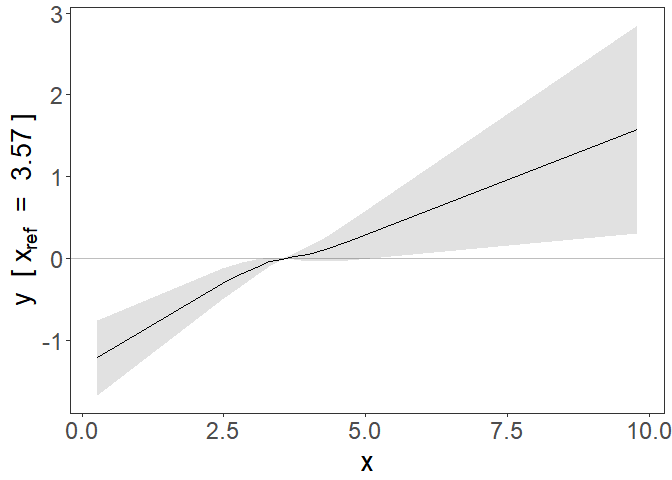
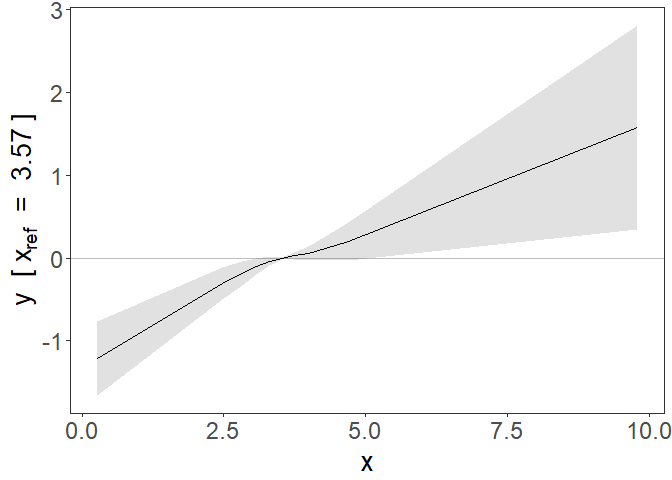
clarify dummy vars

diff --git a/README.md b/README.md
@@ -57,20 +57,20 @@ library(SUMnlmr)
 test_data<-create_ind_data(N=10000, beta2=2, beta1=1)
 # this creates quadratic.Y  = x + 2x^2 + errorY 
 head(test_data)
-#>   g          u    errorX      errorY        X linear.Y quadratic.Y    sqrt.Y
-#> 1 2 0.23514002 0.0748216 -0.59156575 2.809962 2.406508    18.19828 1.2728403
-#> 2 1 0.18941186 0.1848965 -0.57572876 2.624308 2.200109    15.97410 1.1957725
-#> 3 0 0.05089268 1.7024419  2.11611839 3.753335 5.910167    34.08521 4.0941850
-#> 4 1 0.86949288 0.4375830  0.92558919 3.557076 5.178259    30.48384 3.5072047
-#> 5 0 0.24796418 0.6760638 -0.01986705 2.924028 3.102532    20.20241 1.8884832
-#> 6 0 0.08891108 0.3238427 -1.19188650 2.412754 1.291996    12.93476 0.4325465
+#>   g         u    errorX     errorY        X linear.Y quadratic.Y    sqrt.Y
+#> 1 0 0.2489799 0.9543541  1.1770164 3.203334 4.579534    25.10223 3.1659864
+#> 2 2 0.1755614 2.1280490  0.5508806 4.803610 5.494940    51.64429 2.8830437
+#> 3 0 0.1271525 0.1282090 -0.3941085 2.255362 1.962975    12.13629 1.2093996
+#> 4 1 0.8511619 0.3516511 -1.7530306 3.452813 2.380712    26.22455 0.7860736
+#> 5 0 0.7960857 0.1932762 -1.8675103 2.989362 1.758720    19.63129 0.4983354
+#> 6 1 0.7606432 2.7672322 -0.1747528 5.777875 6.211637    72.97932 2.8374829
 #>        log.Y threshold.Y fracpoly.Y
-#> 1  0.6297171    2.406508   4.472850
-#> 2  0.5406181    2.200109   4.129744
-#> 3  3.4794772    5.910167   8.555456
-#> 4  2.8901223    5.178259   7.716137
-#> 5  1.2514664    3.102532   5.248457
-#> 6 -0.2399889    1.291996   3.053534
+#> 1  2.5403925    4.579534   6.907919
+#> 2  2.2606975    5.494940   8.633676
+#> 3  0.5209238    1.962975   3.589596
+#> 4  0.1670882    2.380712   4.859090
+#> 5 -0.1355818    1.758720   3.948840
+#> 6  2.1877977    6.211637   9.719709
 ```
 
 Then we use create\_nlmr\_summary to summarise it.
@@ -90,16 +90,16 @@ summ_data<-create_nlmr_summary(y = test_data$quadratic.Y,
 head(summ_data)
 #> $summary
 #>           bx       by        bxse       byse    xmean     xmin     xmax
-#> 1  0.2426369 2.636701 0.005417508 0.07770806 2.459342 2.299668 2.697445
-#> 2  0.2346570 2.857204 0.003117275 0.06105554 2.726723 2.529640 2.931014
-#> 3  0.2405117 3.122162 0.002684119 0.06030403 2.935859 2.738430 3.112755
-#> 4  0.2351513 3.229327 0.002242008 0.05980793 3.111572 2.924886 3.361125
-#> 5  0.2326240 3.268896 0.002512002 0.06398725 3.272659 3.084279 3.453572
-#> 6  0.2350615 3.521094 0.003237663 0.06889345 3.476662 3.271163 3.688989
-#> 7  0.2348803 3.804072 0.004006596 0.08120718 3.730019 3.503808 3.954511
-#> 8  0.2319547 4.052582 0.005600817 0.10805541 4.058995 3.809014 4.308042
-#> 9  0.2372704 4.611073 0.009478421 0.19310762 4.585793 4.244754 4.930739
-#> 10 0.1428170 3.064846 0.053839414 1.70225768 5.973623 5.048069 6.509263
+#> 1  0.2588236 2.868310 0.005621032 0.08044786 2.475200 2.306240 2.734920
+#> 2  0.2639698 3.262953 0.003193135 0.06357513 2.753109 2.530231 2.967550
+#> 3  0.2663603 3.490383 0.002404029 0.05902643 2.947150 2.741072 3.137965
+#> 4  0.2632726 3.673075 0.002233041 0.05738331 3.122582 2.916324 3.300493
+#> 5  0.2654057 3.832009 0.002526511 0.06608632 3.275774 3.073859 3.463344
+#> 6  0.2657900 3.968406 0.003074774 0.06710325 3.480791 3.250359 3.686875
+#> 7  0.2662545 4.202888 0.004110042 0.08104480 3.721853 3.474006 3.957029
+#> 8  0.2667502 4.636122 0.005614201 0.10936277 4.044472 3.771661 4.333903
+#> 9  0.2388100 4.658954 0.009509496 0.18909153 4.559325 4.226539 4.902271
+#> 10 0.3452849 8.874508 0.045877868 1.41920866 5.919853 5.058444 6.537480
 ```
 
 If we have co-variants we want to adjust for in our analysis, we need to
@@ -119,16 +119,53 @@ summ_covar<-create_nlmr_summary(y = test_data$quadratic.Y,
 head(summ_covar)
 #> $summary
 #>             bx         by         bxse        byse    xmean     xmin     xmax
-#> 1  0.024693684 -3.0940033 2.576051e-03 0.480737859 3.335774 2.299668 7.225763
-#> 2  0.009639072 -0.7252159 2.539712e-04 0.019742975 3.003708 2.556269 2.938042
-#> 3  0.009410051 -0.7295432 1.777940e-04 0.014526360 3.195048 2.740037 3.293981
-#> 4  0.009356728 -0.7463530 1.266902e-04 0.010946107 3.345138 2.905345 5.416686
-#> 5  0.009298094 -0.7574547 1.100301e-04 0.009455586 3.459360 3.036941 5.175000
-#> 6  0.009235606 -0.7815219 9.653557e-05 0.008644825 3.652110 3.174821 5.150340
-#> 7  0.009218495 -0.8166449 8.355187e-05 0.007800109 3.918313 3.314028 5.122759
-#> 8  0.008770765 -0.7831802 9.551982e-05 0.008856850 4.013120 3.453870 4.933878
-#> 9  0.008361042 -0.7576824 1.180254e-04 0.010751264 4.156118 3.614199 4.863260
-#> 10 0.002703735 -0.2457555 2.497939e-04 0.022695737 4.252558 3.819090 4.566701
+#> 1  0.020112729 -2.5202320 2.628699e-03 0.502447680 3.517292 2.306240 7.179041
+#> 2  0.007675647 -0.5513467 2.781174e-04 0.020213357 2.998743 2.555001 2.916064
+#> 3  0.007540994 -0.5649603 1.703104e-04 0.012959081 3.184772 2.757848 5.578689
+#> 4  0.007438911 -0.5801280 1.234567e-04 0.009951645 3.315705 2.916463 5.179518
+#> 5  0.007400747 -0.5863771 9.790026e-05 0.008083955 3.476401 3.045057 5.311324
+#> 6  0.007495053 -0.6212495 9.193423e-05 0.007956212 3.648358 3.172838 5.156910
+#> 7  0.007345388 -0.6334340 7.316545e-05 0.006657355 3.842452 3.328465 4.996101
+#> 8  0.007020022 -0.6158171 7.685997e-05 0.006920936 4.000645 3.459216 4.861599
+#> 9  0.006524188 -0.5769882 1.046986e-04 0.009336814 4.111890 3.623456 4.749192
+#> 10 0.002731519 -0.2439639 2.130224e-04 0.018990326 4.203852 3.781399 4.493341
+```
+
+Note: Because the covariants are included as a matrix, lm cannot detect
+factor variables and create automatic dummy variables for them. The
+easiest way to include factor variables is to make these dummy variables
+by hand instead using the
+[model.matrix](https://stat.ethz.ch/R-manual/R-devel/library/stats/html/model.matrix.html)
+command. e.g.
+
+``` r
+
+## create a factor
+test_data$centre<- as.factor(rbinom(nrow(test_data),4, 0.5))
+
+#turn factor into binary contrasts against first factor
+dummies<- model.matrix(~centre,data=test_data)[,2:5]
+
+summ_covar2<-create_nlmr_summary(y = test_data$quadratic.Y,
+                                 x = test_data$X,
+                                 g = test_data$g,
+                                 covar = dummies,
+                                 family = "gaussian",
+                                 q = 10)
+
+head(summ_covar2)
+#> $summary
+#>           bx       by        bxse       byse    xmean     xmin     xmax
+#> 1  0.2559522 2.818961 0.005664330 0.08046629 2.473610 2.306240 2.735941
+#> 2  0.2614943 3.248641 0.003156374 0.06340713 2.754592 2.533839 2.968272
+#> 3  0.2654447 3.475747 0.002406486 0.05972361 2.946783 2.741906 3.139787
+#> 4  0.2627423 3.679040 0.002199282 0.05728084 3.124169 2.917619 3.309920
+#> 5  0.2651361 3.830524 0.002558838 0.06664064 3.274785 3.073161 3.466214
+#> 6  0.2664208 3.980504 0.003103842 0.06859975 3.482717 3.250688 3.694950
+#> 7  0.2662619 4.187337 0.004146708 0.08214068 3.720149 3.471521 3.958958
+#> 8  0.2680148 4.670709 0.005631446 0.11091571 4.045421 3.771661 4.336108
+#> 9  0.2422790 4.723140 0.009477271 0.18882697 4.558720 4.222653 4.906754
+#> 10 0.3485304 8.934549 0.045833562 1.41926455 5.919162 5.054255 6.537480
 ```
 
 These have used a single genetic variant count, but the method works
@@ -165,19 +202,19 @@ summary(model)
 #> 
 #> Coefficients:
 #>   Estimate Std. Error 95%CI Lower 95%CI Upper   p.value    
-#> 2 2.181430   0.016117    2.149841       2.213 < 2.2e-16 ***
+#> 2 2.188809   0.014287    2.160806      2.2168 < 2.2e-16 ***
 #> ---
 #> Signif. codes:  0 '***' 0.001 '**' 0.01 '*' 0.05 '.' 0.1 ' ' 1
 #> 
 #> Non-linearity tests
-#> Fractional polynomial degree p-value: 0.0229
+#> Fractional polynomial degree p-value: 0.00382
 #> Fractional polynomial non-linearity p-value: 0
-#> Quadratic p-value: 1.78e-60
+#> Quadratic p-value: 1.02e-72
 #> Cochran Q p-value: 0
 #> 
 #> Heterogeneity tests
-#> Cochran Q p-value: 0.346
-#> Trend p-value: 0.129
+#> Cochran Q p-value: 0.163
+#> Trend p-value: 0.939
 ```
 
 <img src="man/figures/README-example4-1.png" width="100%" /> This also
@@ -186,6 +223,7 @@ ggplot object and can be adjusted with ggplot commands
 
 ``` r
 library(ggplot2)
+#> Warning: package 'ggplot2' was built under R version 4.0.5
 f <- function(x) (x + 2*x^2 - mean(summ_data$summary$xmean) -
                     2*mean(summ_data$summary$xmean)^2 )
 
@@ -206,11 +244,11 @@ Q: Cochran Q heterogeneity test \* trend: trend test
 ``` r
 model$p_tests
 #>        fp_d1_d2 fp         quad Q
-#> [1,] 0.02294777  0 1.781955e-60 0
+#> [1,] 0.00382117  0 1.016544e-72 0
 
 model$p_heterogeneity
-#>              Q     trend
-#> [1,] 0.3461578 0.1293188
+#>             Q     trend
+#> [1,] 0.162997 0.9391521
 ```
 
 ## Example 3: Piecewise linear model
@@ -233,25 +271,25 @@ summary(model2)
 #> 1 10  1000
 #> 
 #> $coefficients
-#>        beta        se        lci      uci          pval
-#> 1  11.18928 0.3297671 10.5170539 11.86151 1.853983e-233
-#> 2  12.12502 0.2590994 11.6143627 12.63568  0.000000e+00
-#> 3  13.24942 0.2559102 12.7420916 13.75674  0.000000e+00
-#> 4  13.70419 0.2538049 13.2007939 14.20759  0.000000e+00
-#> 5  13.87210 0.2715406 13.3398802 14.40433  0.000000e+00
-#> 6  14.94235 0.2923609 14.3171802 15.56752  0.000000e+00
-#> 7  16.14322 0.3446162 15.4465458 16.83989  0.000000e+00
-#> 8  17.19781 0.4585512 16.2669601 18.12866 3.977674e-287
-#> 9  19.56786 0.8194844 18.0111217 21.12460 5.100253e-134
-#> 10 13.00619 7.2238146 -0.9132326 26.92560  6.703978e-02
+#>        beta        se      lci      uci          pval
+#> 1  10.84182 0.3040819 10.23736 11.44628 9.694168e-271
+#> 2  12.33351 0.2403053 11.85092 12.81611  0.000000e+00
+#> 3  13.19317 0.2231118 12.75837 13.62797  0.000000e+00
+#> 4  13.88372 0.2169010 13.44159 14.32586  0.000000e+00
+#> 5  14.48447 0.2497972 13.96163 15.00731  0.000000e+00
+#> 6  15.00003 0.2536411 14.48284 15.51723  0.000000e+00
+#> 7  15.88634 0.3063382 15.26497 16.50771  0.000000e+00
+#> 8  17.52391 0.4133763 16.70458 18.34323  0.000000e+00
+#> 9  17.61021 0.7147401 16.13224 19.08818 1.263645e-120
+#> 10 33.54443 5.3644143 23.11856 43.97029  2.860621e-10
 #> 
 #> $p_tests
 #>           quad Q
-#> 1 1.781955e-60 0
+#> 1 1.016544e-72 0
 #> 
 #> $p_heterogeneity
-#>           Q     trend
-#> 1 0.3461578 0.1293188
+#>          Q     trend
+#> 1 0.162997 0.8732123
 #> 
 #> $figure
 ```
@@ -302,27 +340,31 @@ model3<- with(summ_bin$summary,frac_poly_summ_mr(bx=bx,
                   family="binomial",
                   fig=TRUE)
 )
+#> Warning: Fisher scoring algorithm may have gotten stuck at a local maximum.
+#>   Setting tau^2 = 0. Check the profile likelihood plot with profile().
 
 summary(model3)
 #> Call: frac_poly_mr
 #> 
 #> Number of individuals: NA; Quantiles: 10; 95%CI: Model based SEs
 #> 
-#> Powers: 3
+#> Powers: -1
 #> 
 #> Coefficients:
-#>     Estimate Std. Error 95%CI Lower 95%CI Upper p.value
-#> 3 -0.0015174  0.0024990  -0.0064154      0.0034  0.5437
+#>    Estimate Std. Error 95%CI Lower 95%CI Upper p.value  
+#> -1  -2.2290     1.0791     -4.3441     -0.1139 0.03887 *
+#> ---
+#> Signif. codes:  0 '***' 0.001 '**' 0.01 '*' 0.05 '.' 0.1 ' ' 1
 #> 
 #> Non-linearity tests
-#> Fractional polynomial degree p-value: 0.759
-#> Fractional polynomial non-linearity p-value: 0.557
-#> Quadratic p-value: 0.345
-#> Cochran Q p-value: 0.684
+#> Fractional polynomial degree p-value: 0.497
+#> Fractional polynomial non-linearity p-value: 0.149
+#> Quadratic p-value: 0.0683
+#> Cochran Q p-value: 0.479
 #> 
 #> Heterogeneity tests
-#> Cochran Q p-value: 0.648
-#> Trend p-value: 0.401
+#> Cochran Q p-value: 0.0147
+#> Trend p-value: 0.183
 ```
 
 <img src="man/figures/README-bin-1.png" width="100%" /> Not
@@ -353,16 +395,16 @@ summary(model4)
 #> 
 #> $coefficients
 #>         beta         se         lci       uci         pval
-#> 1  0.4062614 0.05955269  0.28838212 0.5241407 1.428534e-11
-#> 2  0.3624422 0.07347687  0.21596666 0.5089177 1.235447e-06
-#> 3  0.3110766 0.08701566  0.13943393 0.4827193 3.820155e-04
-#> 4  0.2868202 0.09690730  0.10106114 0.4725793 2.475449e-03
-#> 5  0.1526631 0.10198090 -0.04960958 0.3549358 1.390632e-01
-#> 6  0.1413218 0.10542626 -0.06964045 0.3522840 1.891873e-01
-#> 7  0.1284211 0.10245230 -0.07196184 0.3288041 2.090718e-01
-#> 8  0.1911379 0.10494505 -0.01631576 0.3985916 7.094169e-02
-#> 9  0.2236501 0.10432433  0.02059804 0.4267021 3.086362e-02
-#> 10 0.2689869 0.09865336  0.07558401 0.4623899 6.410898e-03
+#> 1  0.4062614 0.05955269  0.29040291 0.5221199 6.295310e-12
+#> 2  0.3624422 0.07347687  0.21920787 0.5056765 7.063386e-07
+#> 3  0.3110766 0.08701566  0.13598922 0.4861640 4.970907e-04
+#> 4  0.2868202 0.09690730  0.09966541 0.4739751 2.666680e-03
+#> 5  0.1526631 0.10198090 -0.05107052 0.3563968 1.419193e-01
+#> 6  0.1413218 0.10542626 -0.06461497 0.3472586 1.786162e-01
+#> 7  0.1284211 0.10245230 -0.07345933 0.3303016 2.124693e-01
+#> 8  0.1911379 0.10494505 -0.01139742 0.3936733 6.435630e-02
+#> 9  0.2236501 0.10432433  0.01842177 0.4288784 3.268478e-02
+#> 10 0.2689869 0.09865336  0.07254420 0.4654297 7.278910e-03
 #> 
 #> $p_tests
 #>        quad         Q
@@ -398,16 +440,16 @@ summary(model4)
     #> 
     #> $coefficients
     #>         beta         se        lci       uci         pval
-    #> 1  0.3076383 0.06286262 0.18554776 0.4297288 7.863668e-07
-    #> 2  0.2922888 0.07803988 0.14059209 0.4439854 1.590328e-04
-    #> 3  0.3579244 0.09154918 0.17550606 0.5403426 1.201934e-04
-    #> 4  0.2152398 0.10145750 0.02009229 0.4103874 3.063355e-02
-    #> 5  0.2541277 0.10625811 0.04486077 0.4633947 1.730479e-02
-    #> 6  0.4308538 0.10793986 0.21682647 0.6448812 7.958935e-05
-    #> 7  0.2584994 0.10687532 0.04191673 0.4750821 1.931825e-02
-    #> 8  0.2921218 0.10751727 0.08201864 0.5022249 6.427587e-03
-    #> 9  0.3296967 0.10623077 0.12564566 0.5337477 1.540828e-03
-    #> 10 0.3950466 0.10052968 0.19678580 0.5933074 9.406263e-05
+    #> 1  0.3076383 0.06286262 0.18442139 0.4308552 9.902095e-07
+    #> 2  0.2922888 0.07803988 0.14098715 0.4435904 1.528555e-04
+    #> 3  0.3579244 0.09154918 0.18321943 0.5326293 5.931395e-05
+    #> 4  0.2152398 0.10145750 0.01946529 0.4110144 3.117145e-02
+    #> 5  0.2541277 0.10625811 0.04565396 0.4626015 1.688404e-02
+    #> 6  0.4308538 0.10793986 0.22351069 0.6381970 4.644522e-05
+    #> 7  0.2584994 0.10687532 0.04024621 0.4767526 2.026381e-02
+    #> 8  0.2921218 0.10751727 0.08258085 0.5016627 6.286651e-03
+    #> 9  0.3296967 0.10623077 0.12604819 0.5333452 1.507990e-03
+    #> 10 0.3950466 0.10052968 0.19464311 0.5954501 1.116999e-04
     #> 
     #> $p_tests
     #>        quad         Q
